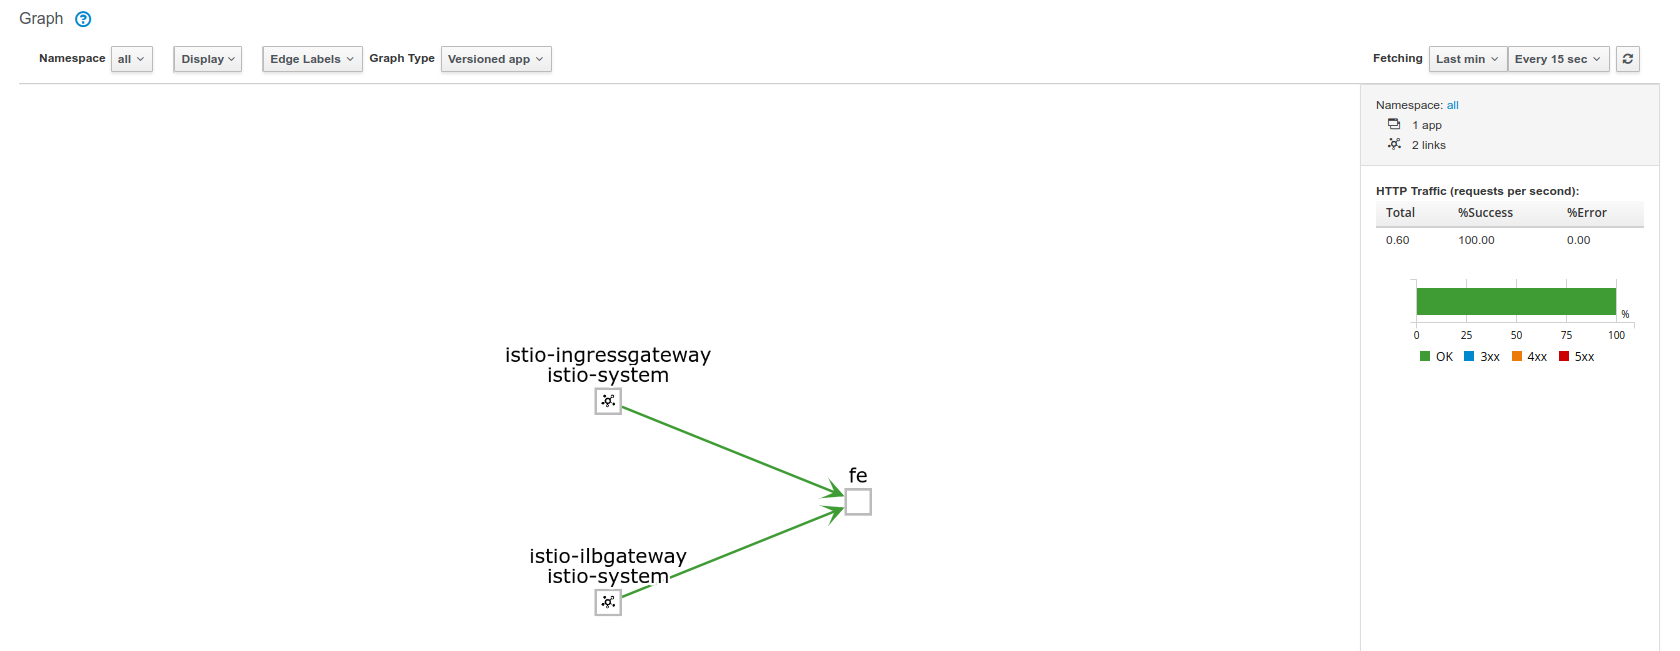
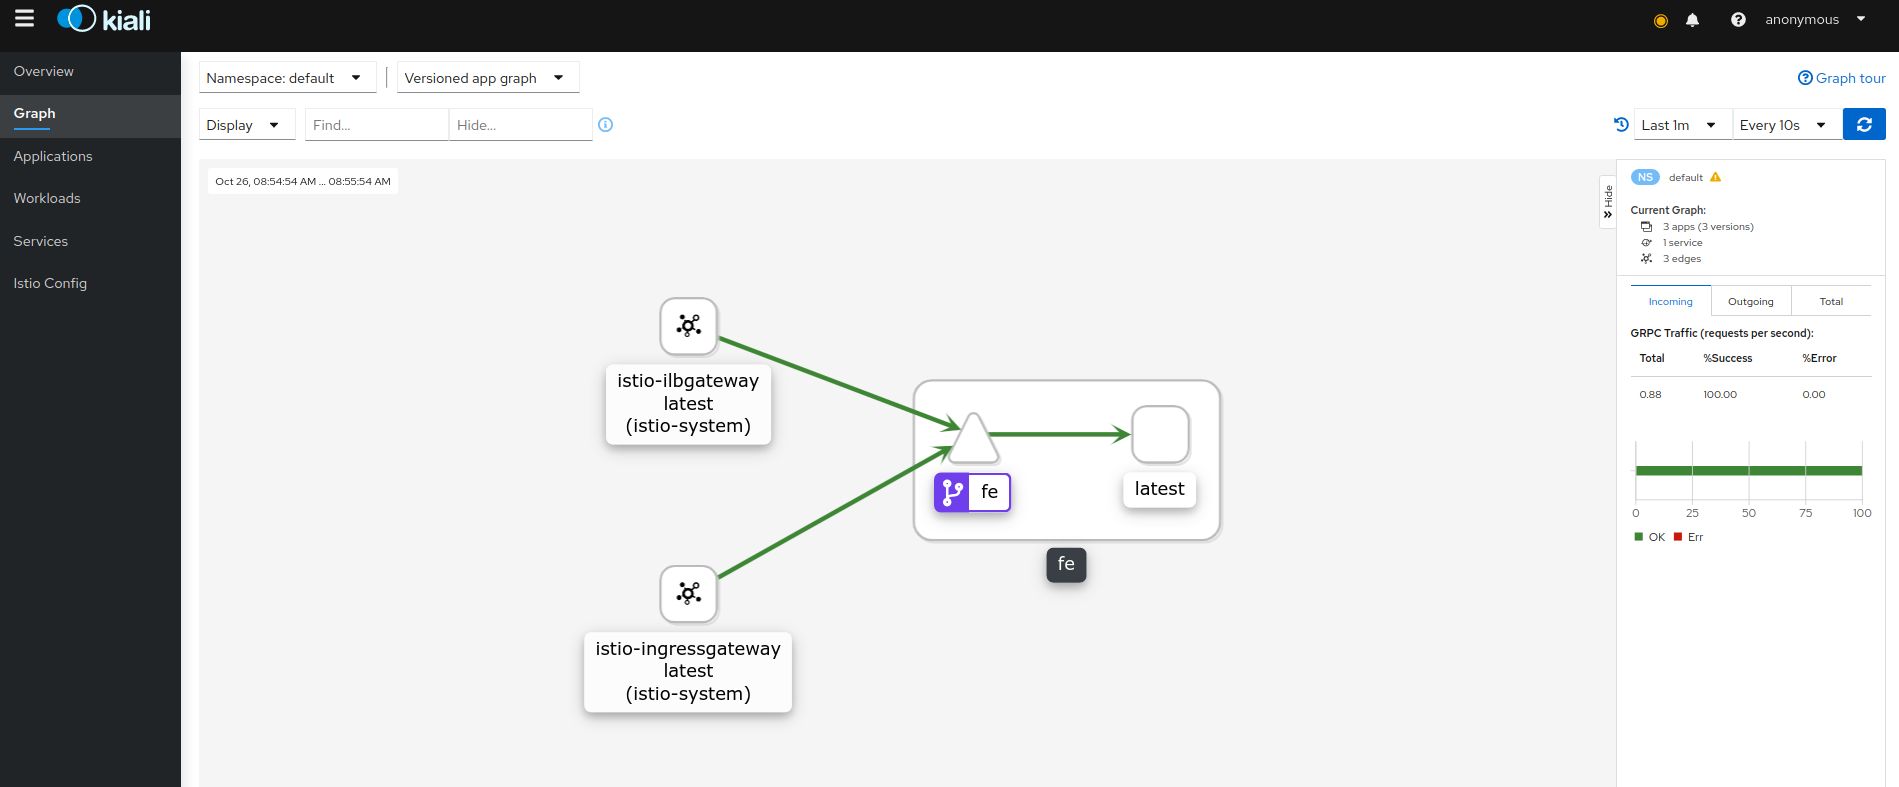
update for istio 172

diff --git a/istio/README.md b/istio/README.md
@@ -10,52 +10,19 @@ Demonstrates gRPC loadbalancing with Istio where mesh-external clients connect v
 - `client_grpc_app (external) --> (GCP ExternalLB) --> Istio --> Service`
 
 
-- uses ISTIO version `1.3.2`
+- uses ISTIO version `1.7.2`
 
 1) Install GKE+Istio
 
-Note, in the following i'm installing GKE first and than a manual install of istio.  
+``bash
+# Follow instructions here https://github.com/salrashid123/istio_helloworld#create-a-118-gke-cluster-and-bootstrap-istio
 
-You can also simply use
-``` --addons HorizontalPodAutoscaling,HttpLoadBalancing,Istio --istio-config auth=MTLS_PERMISSIVE``` as the istio addon for GKE and then add
-yaml configs for the ILBGateway
+$ git clone https://github.com/salrashid123/istio_helloworld.git
 
-
-```bash
-
-gcloud container  clusters create cluster-1 --machine-type "n1-standard-4" \
-   --zone us-central1-a  --num-nodes 4 --cluster-version=1.16.0 --enable-ip-alias 
-gcloud container clusters get-credentials cluster-1 --zone us-central1-a
-
-kubectl create clusterrolebinding cluster-admin-binding --clusterrole=cluster-admin --user=$(gcloud config get-value core/account)
-
-kubectl create ns istio-system
-
-export ISTIO_VERSION=1.3.2
-wget https://github.com/istio/istio/releases/download/$ISTIO_VERSION/istio-$ISTIO_VERSION-linux.tar.gz
-tar xvzf istio-$ISTIO_VERSION-linux.tar.gz
-
-wget https://storage.googleapis.com/kubernetes-helm/helm-v2.11.0-linux-amd64.tar.gz
-tar xf helm-v2.11.0-linux-amd64.tar.gz
-
-export PATH=`pwd`/istio-$ISTIO_VERSION/bin:`pwd`/linux-amd64/:$PATH
-
-helm template istio-$ISTIO_VERSION/install/kubernetes/helm/istio-init --name istio-init --namespace istio-system | kubectl apply -f -
-
-
-helm template istio-$ISTIO_VERSION/install/kubernetes/helm/istio --name istio --namespace istio-system  \
-   --set prometheus.enabled=true \
-   --set grafana.enabled=true \
-   --set tracing.enabled=true \
-   --set sidecarInjectorWebhook.enabled=true \
-   --set gateways.istio-ilbgateway.enabled=true \
-   --set global.mtls.enabled=true > istio.yaml
-
-kubectl apply -f istio.yaml
-
-
-kubectl label namespace default istio-injection=enabled
+# until apply istio namespace
+$ kubectl label namespace default istio-injection=enabled
 ```
+
 
 
 2) Verify external and ILB IP addresses
@@ -91,12 +58,73 @@ kubectl apply -f istio-fe.yaml \
    -f istio-ingress-ilbgateway.yaml
 ```
 
+After sometime, you should see
+
+istio deployment
+
+```bash
+$ kubectl get no,po,rc,svc,ing,deployment -n istio-system
+
+      NAME                                            STATUS   ROLES    AGE   VERSION
+      node/gke-cluster-1-default-pool-39500f93-4w4g   Ready    <none>   32m   v1.18.9-gke.2501
+      node/gke-cluster-1-default-pool-39500f93-bsqm   Ready    <none>   32m   v1.18.9-gke.2501
+      node/gke-cluster-1-default-pool-39500f93-cq95   Ready    <none>   32m   v1.18.9-gke.2501
+      node/gke-cluster-1-default-pool-39500f93-x7f6   Ready    <none>   32m   v1.18.9-gke.2501
+
+      NAME                                        READY   STATUS    RESTARTS   AGE
+      pod/istio-egressgateway-7b49cdb77f-4xgl7    1/1     Running   0          10m
+      pod/istio-ilbgateway-789d466f67-mkpxr       1/1     Running   0          10m
+      pod/istio-ingressgateway-78c9bf4887-m7dhq   1/1     Running   0          10m
+      pod/istiod-95bffc969-qx6rd                  1/1     Running   0          11m
+
+      NAME                           TYPE           CLUSTER-IP   EXTERNAL-IP   PORT(S)                                         AGE
+      service/istio-egressgateway    ClusterIP      10.4.10.69   <none>        80/TCP,443/TCP,15443/TCP                        10m
+      service/istio-ilbgateway       LoadBalancer   10.4.5.41    10.128.0.47   443:31057/TCP                                   10m
+      service/istio-ingressgateway   LoadBalancer   10.4.1.151   34.66.87.2    443:31310/TCP                                   10m
+      service/istiod                 ClusterIP      10.4.7.159   <none>        15010/TCP,15012/TCP,443/TCP,15014/TCP,853/TCP   11m
+
+      NAME                                   READY   UP-TO-DATE   AVAILABLE   AGE
+      deployment.apps/istio-egressgateway    1/1     1            1           10m
+      deployment.apps/istio-ilbgateway       1/1     1            1           10m
+      deployment.apps/istio-ingressgateway   1/1     1            1           10m
+      deployment.apps/istiod                 1/1     1            1           11m
+
+```
+
+and your application
+
+```bash
+$ kubectl get po,rc,svc,ing,deployment 
+
+   NAME                                 READY   STATUS    RESTARTS   AGE
+   pod/fe-deployment-587d46d8c7-526xt   2/2     Running   0          56s
+   pod/fe-deployment-587d46d8c7-k4b4q   2/2     Running   0          56s
+   pod/fe-deployment-587d46d8c7-ptzbt   2/2     Running   0          56s
+   pod/fe-deployment-587d46d8c7-sjj56   2/2     Running   0          56s
+
+   NAME                 TYPE        CLUSTER-IP    EXTERNAL-IP   PORT(S)   AGE
+   service/fe           ClusterIP   10.4.14.180   <none>        443/TCP   57s
+   service/kubernetes   ClusterIP   10.4.0.1      <none>        443/TCP   29m
+
+   NAME                            READY   UP-TO-DATE   AVAILABLE   AGE
+   deployment.apps/fe-deployment   4/4     4            4           57s
+
+```
+
+as well as the serivce on GKE console
 ![images/gke_ilb.png](images/gke_ilb.png)
 
 
+You many need to reload the ingress gateway (theres a race condition where thecerts are read in before creation ...i need to figure out how to fix it)
+
+to reload the ingress gateway, run
+```bash
+INGRESS_POD_NAME=$(kubectl get po -n istio-system | grep ingressgateway\- | awk '{print$1}'); echo ${INGRESS_POD_NAME};
+kubectl delete po/$INGRESS_POD_NAME -n istio-system
+```
 ### Verify External client connectivity
 
-
+wait about 10mins (really, you need to wait)
 ```bash
 docker  run --add-host grpc.domain.com:$GATEWAY_IP -t salrashid123/grpc_backend /grpc_client --host grpc.domain.com:443
 ```
@@ -105,11 +133,17 @@ You should see responses from different service addresses:
 
 ```bash
 $ docker  run --add-host grpc.domain.com:$GATEWAY_IP -t salrashid123/grpc_backend /grpc_client --host grpc.domain.com:443
-2019/02/07 02:25:32 RPC Response: 0 message:"Hello unary RPC msg   from hostname fe-deployment-64768579c-4p528" 
-2019/02/07 02:25:34 RPC Response: 1 message:"Hello unary RPC msg   from hostname fe-deployment-64768579c-626bw" 
-2019/02/07 02:25:35 RPC Response: 2 message:"Hello unary RPC msg   from hostname fe-deployment-64768579c-swmk9" 
-2019/02/07 02:25:36 RPC Response: 3 message:"Hello unary RPC msg   from hostname fe-deployment-64768579c-7cj7g" 
-2019/02/07 02:25:37 RPC Response: 4 message:"Hello unary RPC msg   from hostname fe-deployment-64768579c-4p528" 
+
+2020/10/26 12:51:14 RPC Response: 0 message:"Hello unary RPC msg   from hostname fe-deployment-587d46d8c7-526xt" 
+2020/10/26 12:51:15 RPC Response: 1 message:"Hello unary RPC msg   from hostname fe-deployment-587d46d8c7-sjj56" 
+2020/10/26 12:51:16 RPC Response: 2 message:"Hello unary RPC msg   from hostname fe-deployment-587d46d8c7-k4b4q" 
+2020/10/26 12:51:17 RPC Response: 3 message:"Hello unary RPC msg   from hostname fe-deployment-587d46d8c7-ptzbt" 
+2020/10/26 12:51:18 RPC Response: 4 message:"Hello unary RPC msg   from hostname fe-deployment-587d46d8c7-526xt" 
+2020/10/26 12:51:20 RPC Response: 5 message:"Hello unary RPC msg   from hostname fe-deployment-587d46d8c7-sjj56" 
+2020/10/26 12:51:21 RPC Response: 6 message:"Hello unary RPC msg   from hostname fe-deployment-587d46d8c7-k4b4q" 
+2020/10/26 12:51:22 RPC Response: 7 message:"Hello unary RPC msg   from hostname fe-deployment-587d46d8c7-ptzbt" 
+2020/10/26 12:51:23 RPC Response: 8 message:"Hello unary RPC msg   from hostname fe-deployment-587d46d8c7-526xt" 
+2020/10/26 12:51:24 RPC Response: 9 message:"Hello unary RPC msg   from hostname fe-deployment-587d46d8c7-sjj56"
 ```
 
 ### Verify Internal client connectivity
@@ -117,22 +151,39 @@ $ docker  run --add-host grpc.domain.com:$GATEWAY_IP -t salrashid123/grpc_backen
 First create a GCP VM within the same VPC.  SSH in and run:
   
 ```bash
-  docker  run --add-host grpc.domain.com:$ILB_GATEWAY_IP \
-     -t salrashid123/grpc_backend /grpc_client --host grpc.domain.com:443 
+  docker  run --add-host grpc.domain.com:$ILB_GATEWAY_IP  -t salrashid123/grpc_backend /grpc_client --host grpc.domain.com:443 
 ```
 
 You should see responses from different service addresses:
 
 ```bash
-$ docker  run --add-host grpc.domain.com:$ILB_GATEWAY_IP -t salrashid123/grpc_backend /grpc_client --host grpc.domain.com:443
-2019/02/07 02:26:05 RPC Response: 0 message:"Hello unary RPC msg   from hostname fe-deployment-64768579c-4p528" 
-2019/02/07 02:26:06 RPC Response: 1 message:"Hello unary RPC msg   from hostname fe-deployment-64768579c-626bw" 
-2019/02/07 02:26:07 RPC Response: 2 message:"Hello unary RPC msg   from hostname fe-deployment-64768579c-swmk9" 
-2019/02/07 02:26:08 RPC Response: 3 message:"Hello unary RPC msg   from hostname fe-deployment-64768579c-7cj7g" 
-2019/02/07 02:26:09 RPC Response: 4 message:"Hello unary RPC msg   from hostname fe-deployment-64768579c-4p528"
+$  docker  run --add-host grpc.domain.com:$ILB_GATEWAY_IP -t salrashid123/grpc_backend /grpc_client --host grpc.domain.com:443
+
+2020/10/26 12:51:04 RPC Response: 0 message:"Hello unary RPC msg   from hostname fe-deployment-587d46d8c7-sjj56" 
+2020/10/26 12:51:05 RPC Response: 1 message:"Hello unary RPC msg   from hostname fe-deployment-587d46d8c7-k4b4q" 
+2020/10/26 12:51:06 RPC Response: 2 message:"Hello unary RPC msg   from hostname fe-deployment-587d46d8c7-ptzbt" 
+2020/10/26 12:51:07 RPC Response: 3 message:"Hello unary RPC msg   from hostname fe-deployment-587d46d8c7-526xt" 
+2020/10/26 12:51:08 RPC Response: 4 message:"Hello unary RPC msg   from hostname fe-deployment-587d46d8c7-sjj56" 
+2020/10/26 12:51:09 RPC Response: 5 message:"Hello unary RPC msg   from hostname fe-deployment-587d46d8c7-k4b4q" 
+2020/10/26 12:51:10 RPC Response: 6 message:"Hello unary RPC msg   from hostname fe-deployment-587d46d8c7-ptzbt" 
+2020/10/26 12:51:11 RPC Response: 7 message:"Hello unary RPC msg   from hostname fe-deployment-587d46d8c7-526xt" 
+2020/10/26 12:51:12 RPC Response: 8 message:"Hello unary RPC msg   from hostname fe-deployment-587d46d8c7-sjj56" 
+2020/10/26 12:51:13 RPC Response: 9 message:"Hello unary RPC msg   from hostname fe-deployment-587d46d8c7-k4b4q"
 ```
 
-If you deployed and setup `Kiali`, you should see traffic inbound from the ILB and external gateway:
+If you want to see this visually, setup `Kiali`, you should see traffic inbound from the ILB and external gateway:
+
+first go to the UI
+```
+kubectl apply -f https://raw.githubusercontent.com/istio/istio/release-1.7/samples/addons/prometheus.yaml
+sleep 10
+kubectl apply -f https://raw.githubusercontent.com/istio/istio/release-1.7/samples/addons/kiali.yaml
+sleep 10
+kubectl -n istio-system port-forward $(kubectl -n istio-system get pod -l app=kiali -o jsonpath='{.items[0].metadata.name}') 20001:20001
+```
+then in a browser go to
+
+* Kiali http://localhost:20001/kiali (username: admin, password: admin)
 
 ![images/kiali_grpc.png](images/kiali_grpc.png)
 
